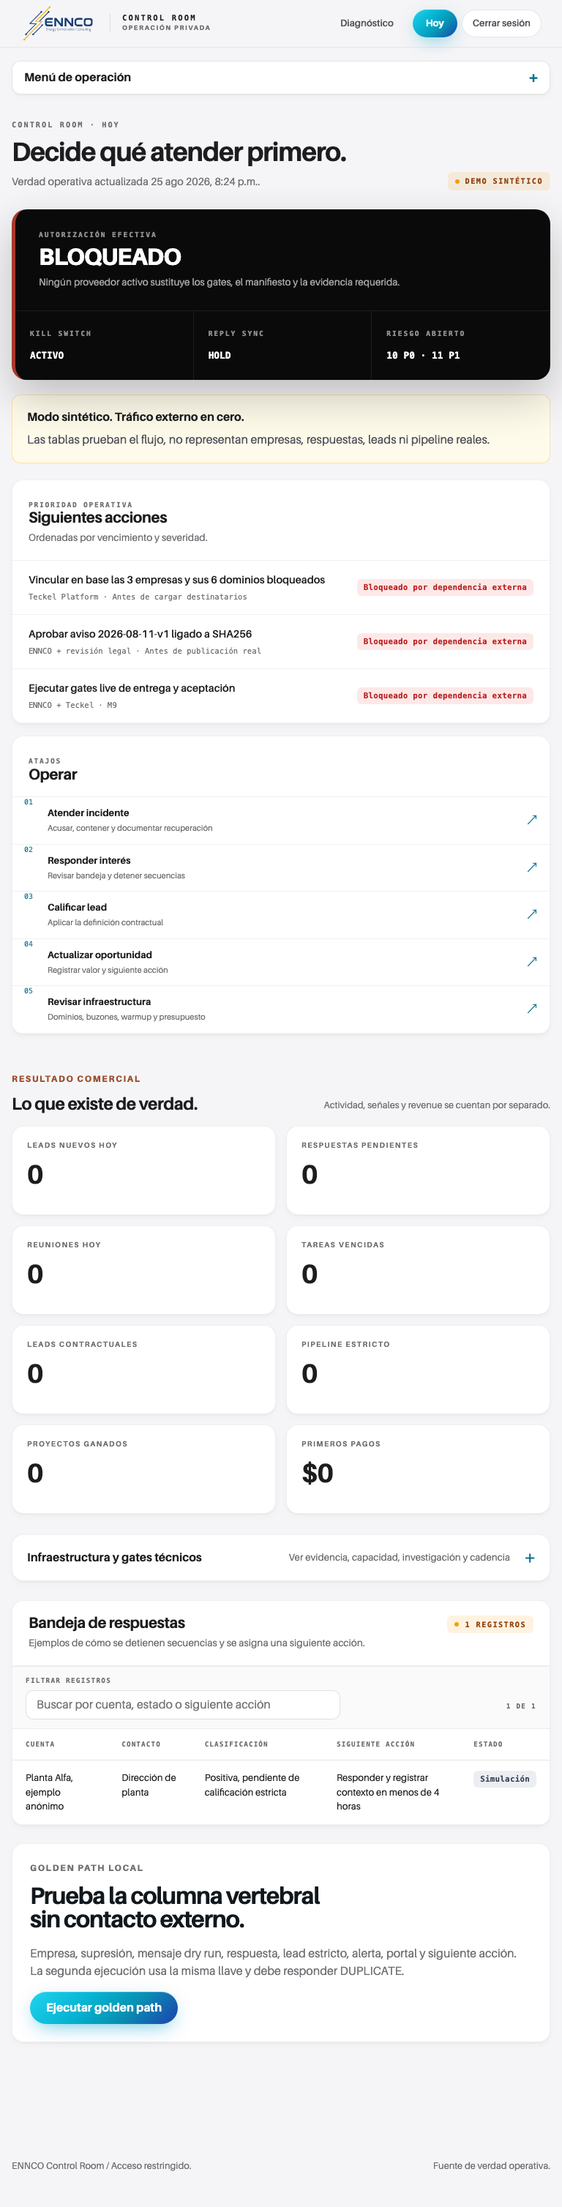
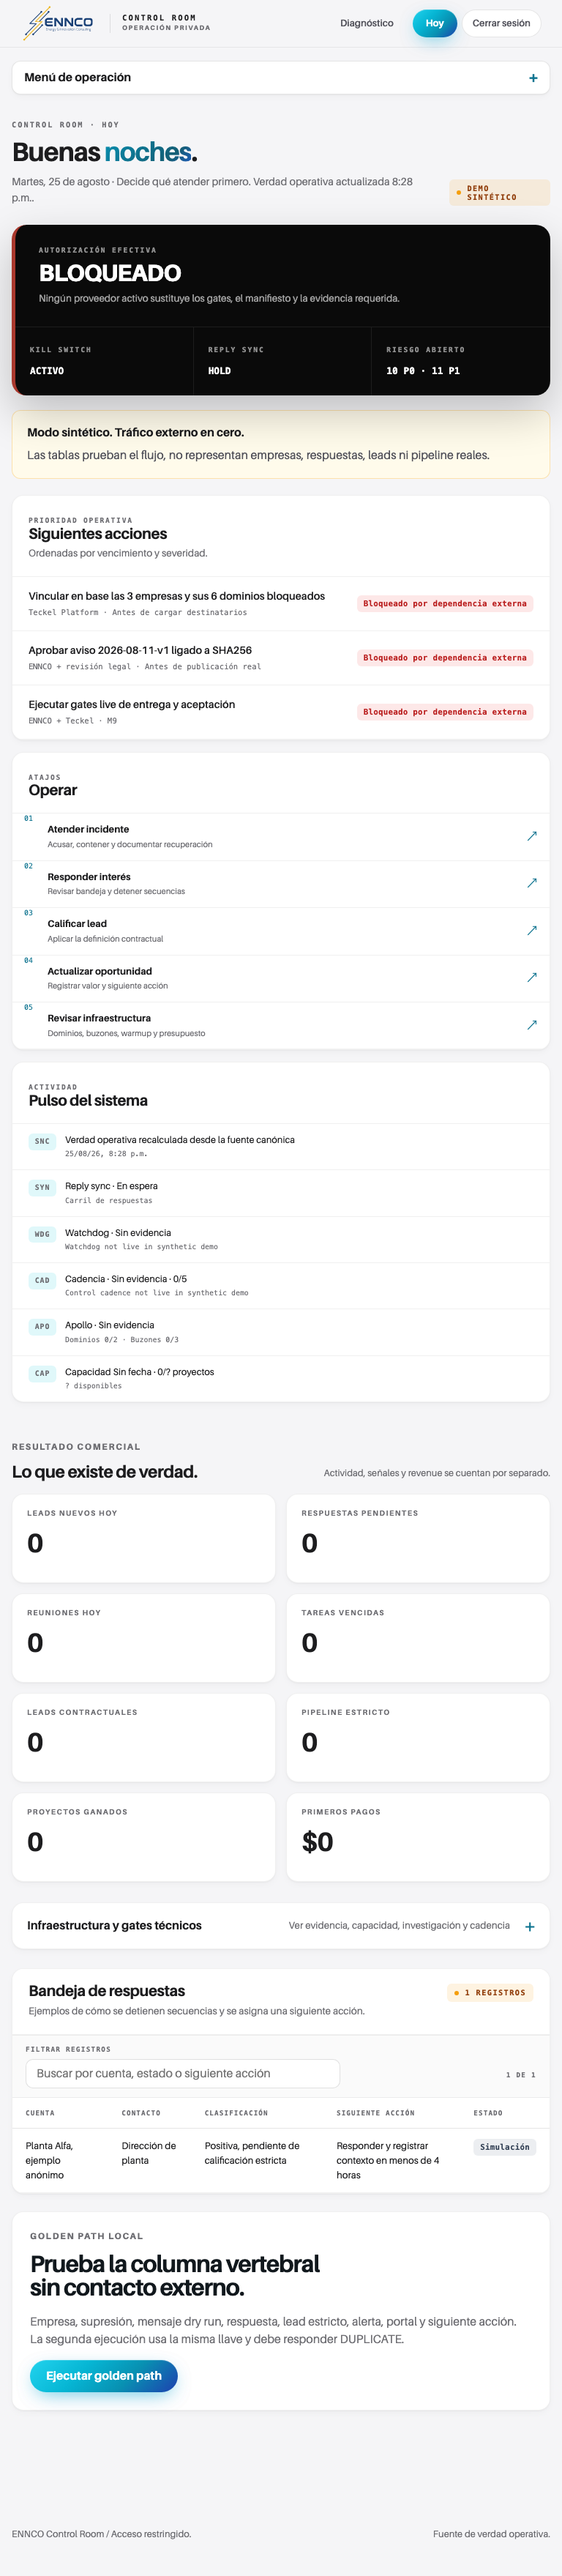
feat(cr): F3 pantalla Hoy — saludo Atlas, feed Pulso del sistema
Saludo por hora CDMX con acento en gradiente, subtítulo con fecha larga y
frescura del snapshot. OperationsFeed server-side alimentado solo con datos
reales del read model (watchdog, cadencia, reply sync, Apollo, capacidad).
Orden de producto intacto (autorización > acciones > métricas). E2E 142/142,
M31 PASS_LOCAL, tripwire público 8/8.

diff --git a/src/app/operacion/page.tsx b/src/app/operacion/page.tsx
@@ -2,6 +2,7 @@ import type { Route } from "next";
 import Link from "next/link";
 
 import { GoldenPathControl } from "@/components/GoldenPathControl";
+import { OperationsFeed } from "@/components/OperationsFeed";
 import { CompactActionTable, PortalRowsTable } from "@/components/PortalTable";
 import { requireOperationsAccess } from "@/lib/auth/authorization";
 import { civilDateValue } from "@/lib/operations/capacity";
@@ -14,6 +15,18 @@ function money(value: number): string {
   return new Intl.NumberFormat("es-MX", { style: "currency", currency: "MXN", maximumFractionDigits: 0 }).format(value);
 }
 
+function greetingParts(): [string, string] {
+  const hour = Number(new Intl.DateTimeFormat("en-US", { hour: "numeric", hour12: false, timeZone: "America/Mexico_City" }).format(new Date()));
+  if (hour >= 5 && hour < 12) return ["Buenos", "días"];
+  if (hour >= 12 && hour < 19) return ["Buenas", "tardes"];
+  return ["Buenas", "noches"];
+}
+
+function longDate(): string {
+  const value = new Intl.DateTimeFormat("es-MX", { weekday: "long", day: "numeric", month: "long", timeZone: "America/Mexico_City" }).format(new Date());
+  return `${value.charAt(0).toLocaleUpperCase("es-MX")}${value.slice(1)}`;
+}
+
 export default async function OperationsPage() {
   const access = await requireOperationsAccess();
   const snapshot = await loadOperationsPortal(access);
@@ -24,8 +37,8 @@ export default async function OperationsPage() {
       <header className="operations-page-heading">
         <div>
           <p className="eyebrow">Control Room · Hoy</p>
-          <h1>Decide qué atender primero.</h1>
-          <p>Verdad operativa actualizada {new Intl.DateTimeFormat("es-MX", { dateStyle: "medium", timeStyle: "short" }).format(new Date(snapshot.generatedAt))}.</p>
+          <h1>{greetingParts()[0]} <span className="cr-accent-text">{greetingParts()[1]}</span>.</h1>
+          <p>{longDate()} · Decide qué atender primero. Verdad operativa actualizada {new Intl.DateTimeFormat("es-MX", { timeStyle: "short", timeZone: "America/Mexico_City" }).format(new Date(snapshot.generatedAt))}.</p>
         </div>
         <span className="badge">{operationalLabel(snapshot.evidenceClass)}</span>
       </header>
@@ -63,16 +76,22 @@ export default async function OperationsPage() {
           </div>
           <CompactActionTable evidenceClass={snapshot.evidenceClass} rows={snapshot.nextActions} />
         </section>
-        <section className="panel quick-links-panel">
-          <div className="panel-head"><div><p className="panel-kicker">Atajos</p><h2>Operar</h2></div></div>
-          <div className="quick-links">
-            <Link href={"/operacion/alertas" as Route}><strong>Atender incidente</strong><span>Acusar, contener y documentar recuperación</span></Link>
-            <Link href={"/operacion/respuestas" as Route}><strong>Responder interés</strong><span>Revisar bandeja y detener secuencias</span></Link>
-            <Link href={"/operacion/leads" as Route}><strong>Calificar lead</strong><span>Aplicar la definición contractual</span></Link>
-            <Link href={"/operacion/pipeline" as Route}><strong>Actualizar oportunidad</strong><span>Registrar valor y siguiente acción</span></Link>
-            <Link href={"/operacion/infraestructura" as Route}><strong>Revisar infraestructura</strong><span>Dominios, buzones, warmup y presupuesto</span></Link>
-          </div>
-        </section>
+        <div className="cr-dashboard-aside">
+          <section className="panel quick-links-panel">
+            <div className="panel-head"><div><p className="panel-kicker">Atajos</p><h2>Operar</h2></div></div>
+            <div className="quick-links">
+              <Link href={"/operacion/alertas" as Route}><strong>Atender incidente</strong><span>Acusar, contener y documentar recuperación</span></Link>
+              <Link href={"/operacion/respuestas" as Route}><strong>Responder interés</strong><span>Revisar bandeja y detener secuencias</span></Link>
+              <Link href={"/operacion/leads" as Route}><strong>Calificar lead</strong><span>Aplicar la definición contractual</span></Link>
+              <Link href={"/operacion/pipeline" as Route}><strong>Actualizar oportunidad</strong><span>Registrar valor y siguiente acción</span></Link>
+              <Link href={"/operacion/infraestructura" as Route}><strong>Revisar infraestructura</strong><span>Dominios, buzones, warmup y presupuesto</span></Link>
+            </div>
+          </section>
+          <section aria-label="Registro operativo" className="panel cr-feed-panel">
+            <div className="panel-head"><div><p className="panel-kicker">Actividad</p><h2>Pulso del sistema</h2></div></div>
+            <OperationsFeed snapshot={snapshot} />
+          </section>
+        </div>
       </div>
 
       <div className="operations-section-heading">

diff --git a/src/components/OperationsFeed.tsx b/src/components/OperationsFeed.tsx
@@ -1,0 +1,61 @@
+import type { OperationsPortalSnapshot } from "@/lib/operations/portal";
+import { civilDateValue } from "@/lib/operations/capacity";
+import { operationalLabel } from "@/lib/operations/presentation";
+
+const timestampFormat = new Intl.DateTimeFormat("es-MX", { dateStyle: "short", timeStyle: "short", timeZone: "America/Mexico_City" });
+
+function stamp(value: string | null | undefined, fallback: string): string {
+  return value ? timestampFormat.format(new Date(value)) : fallback;
+}
+
+type FeedItem = { code: string; text: string; meta: string };
+
+export function OperationsFeed({ snapshot }: { snapshot: OperationsPortalSnapshot }) {
+  const { health } = snapshot;
+  const items: FeedItem[] = [
+    {
+      code: "SNC",
+      text: "Verdad operativa recalculada desde la fuente canónica",
+      meta: timestampFormat.format(new Date(snapshot.generatedAt)),
+    },
+    {
+      code: "SYN",
+      text: `Reply sync · ${operationalLabel(health.replySync)}`,
+      meta: "Carril de respuestas",
+    },
+    {
+      code: "WDG",
+      text: `Watchdog · ${operationalLabel(health.operations.state)}`,
+      meta: stamp(health.operations.lastWatchdogAt, operationalLabel(health.operations.reasonCode)),
+    },
+    {
+      code: "CAD",
+      text: `Cadencia · ${operationalLabel(health.cadence.state)} · ${health.cadence.cadence_count}/${health.cadence.required_cadence_count}`,
+      meta: stamp(health.cadence.last_reconciled_at, operationalLabel(health.cadence.reason_code)),
+    },
+    {
+      code: "APO",
+      text: `${health.outboundProvider.name} · ${operationalLabel(health.outboundProvider.state)}`,
+      meta: `Dominios ${health.outboundProvider.domainsReady}/${health.outboundProvider.domainsTarget} · Buzones ${health.outboundProvider.mailboxesReady}/${health.outboundProvider.mailboxesTarget}`,
+    },
+    {
+      code: "CAP",
+      text: `Capacidad · ${health.capacity.committed}/${health.capacity.limit ?? "?"} proyectos comprometidos`,
+      meta: `${civilDateValue(health.capacity.month)} · ${health.capacity.available ?? "?"} disponibles`,
+    },
+  ];
+
+  return (
+    <div aria-label="Registro operativo" className="cr-feed" role="list">
+      {items.map((item) => (
+        <div className="cr-feed-item" key={item.code} role="listitem">
+          <span aria-hidden="true" className="cr-feed-code">{item.code}</span>
+          <div>
+            <p>{item.text}</p>
+            <span>{item.meta}</span>
+          </div>
+        </div>
+      ))}
+    </div>
+  );
+}

diff --git a/src/styles/control-room.css b/src/styles/control-room.css
@@ -557,6 +557,9 @@
 
 /* ---------- 14. Feed operativo (Hoy) ---------- */
 
+.cr-root .operations-dashboard-grid { align-items: start; }
+.cr-root .cr-dashboard-aside { display: grid; gap: 16px; align-content: start; min-width: 0; }
+
 .cr-root .cr-feed { display: grid; }
 .cr-root .cr-feed-item {
   display: flex;
